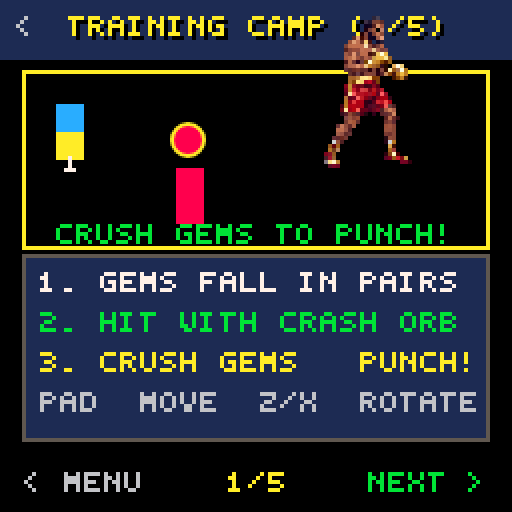
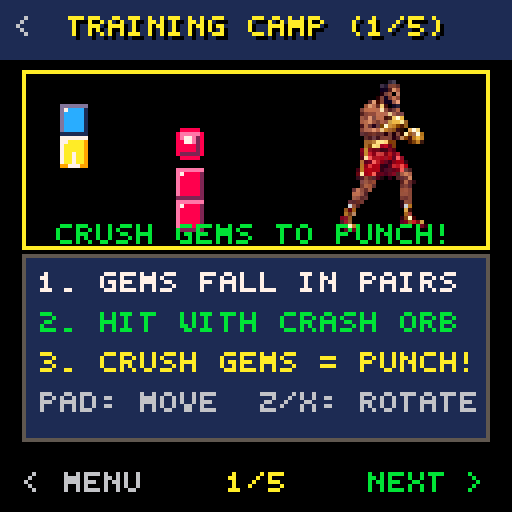
Render authentic in-game gems in tutorial and fix diorama clipping
Match tutorial diorama gems and crash orbs 100% to actual in-game rendering:
1. Implement drawTutorialGem helper using authentic 3D crystal bevels, specular
   diamond glints, rounded crash orb silhouettes with pulsing cores, and gold
   fused power gem borders.
2. Fix boxer avatar Y-coordinate grounding (Y=58) and wrap diorama rendering in
   a strict clipping region to prevent any sprite overflow into top headers.
3. Add missing colon (:) and equals (=) glyph definitions to BITMAP_4X5 font
   engine so typography renders completely without blank character drops.
4. Update all 5 tutorial screenshots and the 6-tile composite contact sheet.

Constraint: 100% visual fidelity between training dioramas and combat boards
Rejected: Simplified flat geometric primitives | confusing for non-gamers
Confidence: high
Scope-risk: narrow
Directive: Always use drawTutorialGem for any future diorama illustrations
Tested: Verified 5 tutorial pages via automated Chrome CDP with zero console errors
Not-tested: none

diff --git a/index.html b/index.html
@@ -3,7 +3,7 @@
 <head>
   <meta charset="UTF-8">
   <meta name="viewport" content="width=device-width, initial-scale=1.0, maximum-scale=1.0, user-scalable=no, viewport-fit=cover">
-  <title>CRASH OUT: RING RUSH (v3.6.1) — 5-Lesson Training Camp & Visual Touch Controls</title>
+  <title>CRASH OUT: RING RUSH (v3.6.2) — Authentic In-Game Gems & Training Camp</title>
   <style>
     :root {
       --pico-black: #000000;
@@ -3798,6 +3798,8 @@
       '9': ['0110','1001','0111','0001','1110'],
       ' ': ['0000','0000','0000','0000','0000'],
       'W': ['1001','1001','1001','1101','0110'],
+      ':': ['0000','0110','0000','0110','0000'],
+      '=': ['0000','1111','0000','1111','0000'],
       '.': ['0000','0000','0000','0000','0110'],
       ',': ['0000','0000','0000','0110','0100'],
       '-': ['0000','0000','1111','0000','0000'],
@@ -3973,7 +3975,7 @@
       if (Math.floor(globalFrameCount / 22) % 2 === 0) {
         printPicoCenter('PRESS START / TOUCH', 109, 10, 1, true);
       }
-      printPicoCenter('OBEATS STUDIOS 2026  BUILD 3.6.1', 121, 6, 1);
+      printPicoCenter('OBEATS STUDIOS 2026  BUILD 3.6.2', 121, 6, 1);
     }
 
     // === MODE SELECT RENDERER ===
@@ -4032,6 +4034,94 @@
         goBack();
       }
     }
+    // ── Authentic In-Game Gem Renderer for Training Camp Dioramas ──
+    function drawTutorialGem(ctx, x, y, type, isPower = false, timerVal = 3, w = 7, h = 9, pulse = false) {
+      const dx = Math.floor(x);
+      const dy = Math.floor(y);
+      const isCrash = (type >= 5 && type <= 8);
+      const isCounter = (type === 10);
+      const cIdx = isCrash ? (type - 4) : type;
+
+      const PAL = {
+        1: [8, 14, 2],  // Red: red / pink / dark maroon
+        2: [12, 13, 1], // Blue: blue / lavender / dark navy
+        3: [11, 10, 3], // Green: green / yellow / dark green
+        4: [10, 7, 9],  // Yellow: yellow / white / orange
+      };
+      const c = PAL[cIdx] || PAL[1];
+      const base = getPalColor(c[0]);
+      const lite = getPalColor(c[1]);
+      const dark = getPalColor(c[2]);
+      const white = getPalColor(7);
+
+      if (isCrash) {
+        // Authentic In-Game Crash Orb (Circular silhouette with glowing core & center glint)
+        ctx.fillStyle = getPalColor(0);
+        ctx.fillRect(dx, dy, w, h);
+
+        ctx.fillStyle = base;
+        ctx.fillRect(dx + 1, dy, w - 2, h);
+        ctx.fillRect(dx, dy + 1, w, h - 2);
+
+        ctx.fillStyle = lite;
+        ctx.fillRect(dx + 1, dy + 1, w - 2, 2);
+        ctx.fillRect(dx + 2, dy + 2, Math.max(1, w - 4), 2);
+
+        ctx.fillStyle = white;
+        if (pulse || Math.floor(globalFrameCount / 6) % 2 === 0) {
+          ctx.fillRect(dx + Math.floor(w / 2) - 1, dy + 2, 2, 2);
+        } else {
+          ctx.fillRect(dx + Math.floor(w / 2) - 1, dy + 1, 1, 1);
+        }
+
+        ctx.fillStyle = dark;
+        ctx.fillRect(dx + 1, dy + h - 2, w - 2, 1);
+        ctx.fillRect(dx + w - 2, dy + 2, 1, h - 3);
+
+      } else if (isCounter) {
+        // Authentic Stone Counter Block with Countdown Number
+        ctx.fillStyle = getPalColor(5);
+        ctx.fillRect(dx, dy, w, h);
+        ctx.strokeStyle = (timerVal === 1 && Math.floor(globalFrameCount / 6) % 2 === 0) ? getPalColor(8) : getPalColor(6);
+        ctx.strokeRect(dx + 0.5, dy + 0.5, w - 1, h - 1);
+        ctx.fillStyle = getPalColor(0);
+        ctx.fillRect(dx + 1, dy + 1, w - 2, h - 2);
+        const numCol = (timerVal === 1) ? 8 : (timerVal === 2 ? 9 : 7);
+        printPico(String(timerVal || 3), dx + Math.floor(w / 2) - 2, dy + Math.floor(h / 2) - 2, numCol, 1);
+
+      } else if (isPower) {
+        // Authentic Fused Power Gem Block with Pulsing Gold Border
+        ctx.fillStyle = base;
+        ctx.fillRect(dx, dy, w, h);
+        const pGlow = Math.floor(globalFrameCount / 6) % 2 === 0;
+        ctx.fillStyle = pGlow ? getPalColor(10) : getPalColor(9);
+        ctx.fillRect(dx, dy, w, 1);
+        ctx.fillRect(dx, dy + h - 1, w, 1);
+        ctx.fillRect(dx, dy, 1, h);
+        ctx.fillRect(dx + w - 1, dy, 1, h);
+        ctx.fillStyle = white;
+        ctx.fillRect(dx + 1, dy + 1, 2, 2);
+
+      } else {
+        // Authentic In-Game 3D Beveled Crystal Gem
+        ctx.fillStyle = base;
+        ctx.fillRect(dx, dy, w, h);
+
+        // Light facet bevel (top and left)
+        ctx.fillStyle = lite;
+        ctx.fillRect(dx, dy, w, 1);
+        ctx.fillRect(dx, dy + 1, 1, h - 2);
+
+        // Dark facet shadow (bottom and right)
+        ctx.fillStyle = dark;
+        ctx.fillRect(dx, dy + h - 1, w, 1);
+        ctx.fillRect(dx + w - 1, dy + 1, 1, h - 2);
+
+        // Specular diamond glint pixel
+        ctx.fillStyle = white;
+        ctx.fillRect(dx + 1, dy + 1, 1, 1);
+      }
+    }
 
     function drawTutorialScreen() {
       ctx.fillStyle = getPalColor(0);
@@ -4049,67 +4139,64 @@
       ctx.strokeStyle = getPalColor(10);
       ctx.strokeRect(6, 18, 116, 44);
 
+      // Strict clipping region so NO sprite or particle ever bleeds outside the diorama
+      ctx.save();
+      ctx.beginPath();
+      ctx.rect(7, 19, 114, 42);
+      ctx.clip();
+
       const animT = Math.floor(globalFrameCount * 0.1) % 60;
 
       if (tutorialPage === 0) {
         // ── Lesson 1: Match & Crush (Puzzles -> Boxing Punches) ──
-        // Left: Falling Gem Pair
-        const gemDropY = 22 + (animT % 14);
-        ctx.fillStyle = getPalColor(12); ctx.fillRect(14, gemDropY, 7, 7); // Blue gem
-        ctx.fillStyle = getPalColor(10); ctx.fillRect(14, gemDropY + 7, 7, 7); // Yellow gem
+        // Left: Falling Gem Pair (Type 2 Blue + Type 4 Yellow)
+        const gemDropY = 22 + (animT % 12);
+        drawTutorialGem(ctx, 15, gemDropY, 2, false, 3, 7, 8);
+        drawTutorialGem(ctx, 15, gemDropY + 8, 4, false, 3, 7, 8);
         // Down arrow
         ctx.fillStyle = getPalColor(7);
-        ctx.fillRect(17, 39, 1, 4); ctx.fillRect(16, 42, 3, 1);
+        ctx.fillRect(18, 38, 1, 4); ctx.fillRect(17, 41, 3, 1);
 
-        // Center: Stacked gems with glowing round Crash Orb
-        ctx.fillStyle = getPalColor(8); ctx.fillRect(44, 42, 7, 7);
-        ctx.fillStyle = getPalColor(8); ctx.fillRect(44, 49, 7, 7);
-        // Pulsing red crash orb
-        const orbGlow = Math.floor(globalFrameCount / 6) % 2 === 0;
-        ctx.fillStyle = orbGlow ? getPalColor(7) : getPalColor(8);
-        ctx.beginPath(); ctx.arc(47, 35, 4, 0, Math.PI * 2); ctx.fill();
-        ctx.strokeStyle = getPalColor(10); ctx.stroke();
+        // Center: Stacked Red Gems (Type 1) + Glowing Red Crash Orb (Type 5)
+        drawTutorialGem(ctx, 44, 42, 1, false, 3, 7, 8);
+        drawTutorialGem(ctx, 44, 50, 1, false, 3, 7, 8);
+        drawTutorialGem(ctx, 44, 32, 5, false, 3, 7, 8, true); // Glowing crash orb!
 
         // Right: Explosion spark particles & Boxer punching!
         const isDet = (animT > 30);
         if (isDet) {
           ctx.fillStyle = getPalColor(10);
-          ctx.fillRect(72, 38, 3, 3); ctx.fillRect(78, 32, 2, 2); ctx.fillRect(70, 46, 2, 2);
+          ctx.fillRect(68, 38, 3, 3); ctx.fillRect(74, 32, 2, 2); ctx.fillRect(66, 46, 2, 2);
+          ctx.fillStyle = getPalColor(7);
+          ctx.fillRect(70, 36, 2, 2); ctx.fillRect(72, 44, 2, 2);
         }
-        // Mini Boxer Avatar punching
-        drawBoxerAvatar(ctx, ROSTER[0], 92, 42, false, false, false);
+        // Grounded Boxer Avatar punching inside box bounds
+        drawBoxerAvatar(ctx, ROSTER[0], 96, 58, false, false, false);
         printPicoCenter('CRUSH GEMS TO PUNCH!', 56, 11, 1);
 
       } else if (tutorialPage === 1) {
         // ── Lesson 2: Power Gems (Fusion & Heavy Hits) ──
         const isFused = (animT > 20);
         if (!isFused) {
-          // 4 individual green gems
-          ctx.fillStyle = getPalColor(11);
-          ctx.fillRect(16, 26, 7, 7); ctx.fillRect(23, 26, 7, 7);
-          ctx.fillRect(16, 33, 7, 7); ctx.fillRect(23, 33, 7, 7);
-          ctx.strokeStyle = getPalColor(3);
-          ctx.strokeRect(16, 26, 7, 7); ctx.strokeRect(23, 26, 7, 7);
+          // 4 individual Type 3 Green gems with crystal bevels
+          drawTutorialGem(ctx, 16, 25, 3, false, 3, 7, 8);
+          drawTutorialGem(ctx, 23, 25, 3, false, 3, 7, 8);
+          drawTutorialGem(ctx, 16, 33, 3, false, 3, 7, 8);
+          drawTutorialGem(ctx, 23, 33, 3, false, 3, 7, 8);
         } else {
           // Giant merged 2x2 Power Gem with pulsing gold border
-          ctx.fillStyle = getPalColor(11);
-          ctx.fillRect(16, 26, 14, 14);
-          ctx.strokeStyle = (Math.floor(globalFrameCount / 6) % 2 === 0) ? getPalColor(10) : getPalColor(7);
-          ctx.lineWidth = 1;
-          ctx.strokeRect(16, 26, 14, 14);
-          printPico('2X2', 18, 31, 0, 1, true);
+          drawTutorialGem(ctx, 16, 25, 3, true, 3, 14, 16, true);
+          printPico('2X2', 18, 32, 0, 1, true);
         }
 
         // Arrow & Uppercut shockwave
         ctx.fillStyle = getPalColor(10);
-        printPico('->', 38, 32, 10, 1, true);
+        printPico('->', 36, 32, 10, 1, true);
 
-        // Giant Uppercut Boxer Animation
-        drawBoxerAvatar(ctx, ROSTER[1], 66, 40, true, false, false);
-        // Heavy counter blocks falling on rival
-        ctx.fillStyle = getPalColor(0); ctx.fillRect(94, 24, 14, 14);
-        ctx.strokeStyle = getPalColor(8); ctx.strokeRect(94, 24, 14, 14);
-        printPico('3', 99, 28, 8, 1, true);
+        // Giant Uppercut Boxer Animation inside box bounds
+        drawBoxerAvatar(ctx, ROSTER[1], 66, 58, true, false, false);
+        // Authentic Stone Counter block falling on rival
+        drawTutorialGem(ctx, 94, 24, 10, false, 3, 14, 16);
 
         printPicoCenter('2X2 FUSION = UPPERCUT!', 56, 10, 1);
 
@@ -4136,7 +4223,7 @@
         // Special move particle blast
         ctx.fillStyle = getPalColor(10);
         ctx.fillRect(84, 22, 28, 20);
-        drawBoxerAvatar(ctx, ROSTER[2], 96, 38, true, false, false);
+        drawBoxerAvatar(ctx, ROSTER[2], 96, 58, true, false, false);
         printPicoCenter('TAP [X] AT 100% SUPER!', 56, 10, 1);
 
       } else if (tutorialPage === 3) {
@@ -4149,8 +4236,8 @@
         printPico('COUNT', 14, 25, 8, 1);
         printPico('7', 22, 33, 10, 2, true);
 
-        // Boxer on Canvas flat
-        drawBoxerAvatar(ctx, ROSTER[0], 60, 42, true, false, true);
+        // Boxer on Canvas flat inside box bounds
+        drawBoxerAvatar(ctx, ROSTER[0], 60, 58, true, false, true);
 
         // Animated Tap Finger & Expanding Ripples
         const tapRip = (Math.floor(globalFrameCount * 0.8) % 14) + 2;
@@ -4187,6 +4274,8 @@
 
         printPicoCenter('READY FOR THE RING!', 56, 10, 1);
       }
+
+      ctx.restore(); // Restore clip region
 
       // ── Text Explanation Box (X: 6..122, Y: 64..110, H: 46) ──
       ctx.fillStyle = getPalColor(1);
@@ -4239,7 +4328,6 @@
         printPico('FIGHT! >', 84, 118, 10, 1, true);
       }
     }
-
     // === 7-STAGE TOURNAMENT LADDER SCREEN ===
     function drawLadderBracketScreen() {
       ctx.fillStyle = getPalColor(0);

diff --git a/README.md b/README.md
@@ -1,6 +1,6 @@
 # 🥊 CRASH OUT: RING RUSH — The Ultimate Adrien Broner, Deen The Great & COB (Crash Out Boys) Retro Puzzle Boxing Game
 
-[![Game Version](https://img.shields.io/badge/Version-v3.6.1-FF004D?style=for-the-badge&logo=retro-arch&logoColor=white)](https://officebeats.github.io/beats-social-media-boxer-game/)
+[![Game Version](https://img.shields.io/badge/Version-v3.6.2-FF004D?style=for-the-badge&logo=retro-arch&logoColor=white)](https://officebeats.github.io/beats-social-media-boxer-game/)
 [![Engine](https://img.shields.io/badge/Engine-PICO--8%20%2F%20HTML5%20Canvas-00E436?style=for-the-badge&logo=html5&logoColor=white)](https://officebeats.github.io/beats-social-media-boxer-game/)
 [![Frame Rate](https://img.shields.io/badge/Performance-Locked%2060%20FPS-29ADFF?style=for-the-badge&logo=speedtest&logoColor=white)](https://officebeats.github.io/beats-social-media-boxer-game/)
 [![Play Live Online](https://img.shields.io/badge/Play%20Live-GitHub%20Pages-FFEC27?style=for-the-badge&logo=github&logoColor=black)](https://officebeats.github.io/beats-social-media-boxer-game/)
